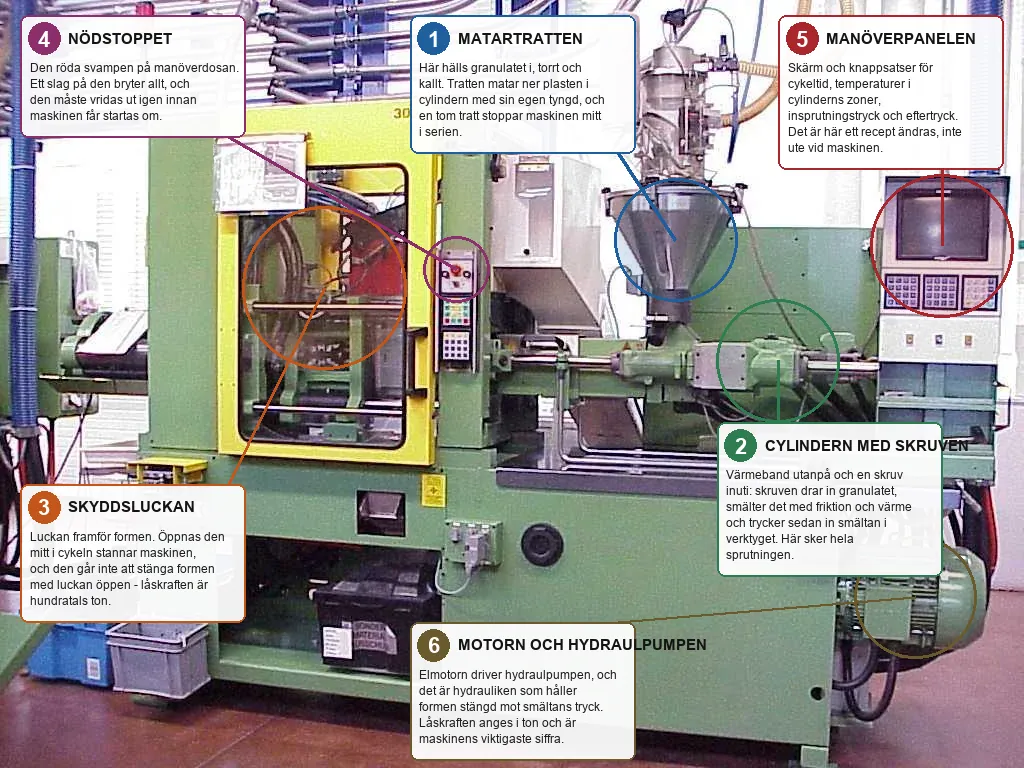
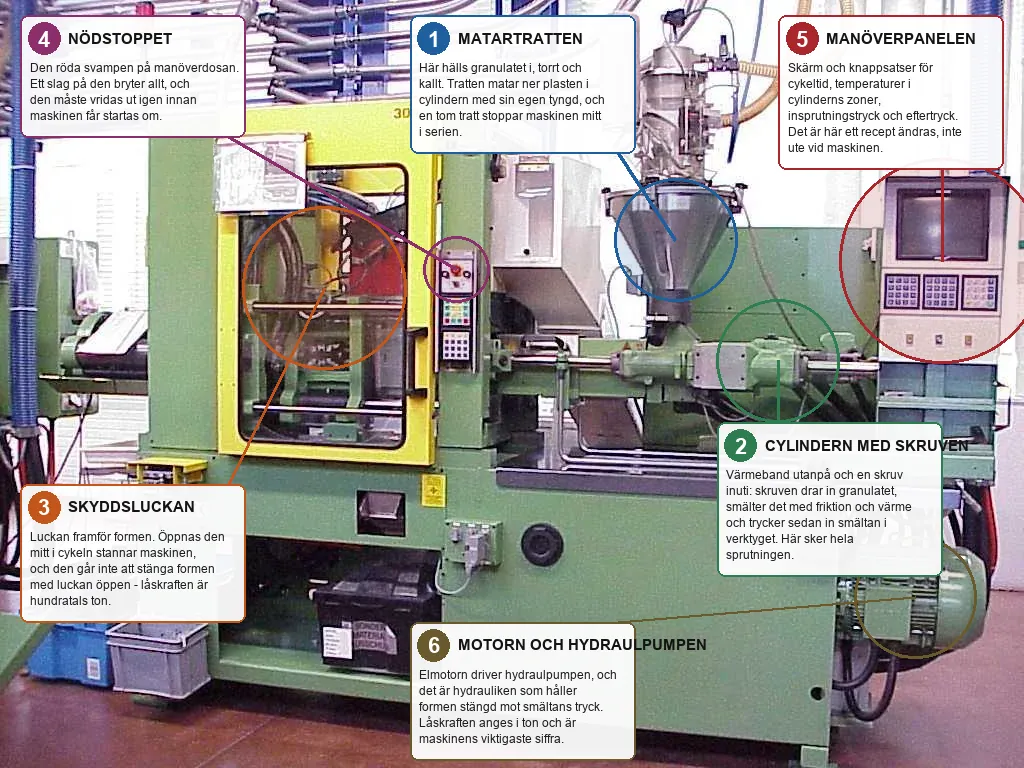
Granskning av tre jobb: rätt svar gick inte att läsa i quizen (genomskinlig grön botten mot mörkblått), lagnamnet stod två gånger i hockeyrundan, Rodins Tänkaren tjänstgjorde som tankfartyg hos färjematrosen, och golfkunderna beskrev fotot. Manöverpanelens träffyta större i formsprutan
Claude-Session: https://claude.ai/code/session_01W17UfEYKZqTsviz1FMLvRY

Changed region(s): [[0.8125, 0.2188, 1.0, 0.5]]

diff --git a/src/data/jobs.ts b/src/data/jobs.ts
@@ -976,7 +976,7 @@ export const JOBS: Job[] = [
       items: ['Passagerare med frågor'],
       bildval: [
         { bild: 'containerfartyg', namn: 'Containerfartyg' },
-        { bild: 'tankaren', namn: 'Tankfartyg' },
+        { bild: 'oljetanker', namn: 'Tankfartyg' },
         { bild: 'sluss', namn: 'Sluss' },
         { bild: 'roro', namn: 'Ro-ro-fartyg' },
         { bild: 'station-farja-1', namn: 'Färjeterminalen' },
@@ -994,8 +994,8 @@ export const JOBS: Job[] = [
         { text: 'Vad är det för lina med en knut som ser ut som ett äpple? Ni kastade den mot kajen.', svar: 'kastlina', nastan: ['fortojning', 'palstek', 'boj'], fel: 'Det där kastade ingen. Det hade gjort ont.' },
         { text: 'Ni knöt en ögla som inte drar åt. Vad heter knopen?', svar: 'palstek', nastan: ['kastlina', 'fortojning', 'fender'], fel: 'Det där är ingen knop. Det är en sak med en knop någonstans på.' },
         { text: 'Den sortens färja saknar skott på lastdäcket, vilket gör den känslig för vatten ombord. Vilken sort?', svar: 'roro', nastan: ['station-farja-1', 'containerfartyg', 'fortojning'], fel: 'Det där har ingen ramp. Bilarna får simma.' },
-        { text: 'Det där höga fartyget med lådor staplade i tio lager – vad kallas den sorten?', svar: 'containerfartyg', nastan: ['tankaren', 'roro', 'station-farja-1'], fel: 'Där ligger inga lådor. Jag har räknat.' },
-        { text: 'Det låga, långa som ligger djupt i vattnet och lastar olja – vad är det?', svar: 'tankaren', nastan: ['containerfartyg', 'roro', 'station-farja-1'], fel: 'Det där lastar ingen olja. Det syns.' },
+        { text: 'Det där höga fartyget med lådor staplade i tio lager – vad kallas den sorten?', svar: 'containerfartyg', nastan: ['oljetanker', 'roro', 'station-farja-1'], fel: 'Där ligger inga lådor. Jag har räknat.' },
+        { text: 'Det låga, långa som ligger djupt i vattnet och lastar olja – vad är det?', svar: 'oljetanker', nastan: ['containerfartyg', 'roro', 'station-farja-1'], fel: 'Det där lastar ingen olja. Det syns.' },
         { text: 'Kammaren där båten lyfts eller sänks mellan två vattennivåer – vad heter den?', svar: 'sluss', nastan: ['fortojning', 'boj', 'station-farja-1'], fel: 'Där lyfts ingen båt. Där ligger den still.' },
         { text: 'Var lägger ni till? Jag ska möta min syster vid terminalen.', svar: 'station-farja-1', nastan: ['roro', 'sluss', 'containerfartyg'], fel: 'Min syster står inte där. Hon står vid terminalen.' },
         { text: 'De uppblåsta kuddarna som hänger utanpå skrovet – vad är de till?', svar: 'fender', nastan: ['boj', 'livboj', 'flytvast'], fel: 'Det där hänger inte utanpå skrovet. Det hade sett konstigt ut.' },
@@ -2908,7 +2908,7 @@ export const JOBS: Job[] = [
           { id: 'cylinder', namn: 'Cylindern med skruven', x: 76, y: 47, r: 6, forklaring: 'Värmeband utanpå och en skruv inuti: skruven drar in granulatet, smälter det med friktion och värme och trycker sedan in smältan i verktyget. Här sker hela sprutningen.' },
           { id: 'skyddslucka', namn: 'Skyddsluckan', x: 31.7, y: 37.5, r: 8, forklaring: 'Luckan framför formen. Öppnas den mitt i cykeln stannar maskinen, och den går inte att stänga formen med luckan öppen - låskraften är hundratals ton.' },
           { id: 'nodstopp', namn: 'Nödstoppet', x: 44.6, y: 35.1, r: 3.2, forklaring: 'Den röda svampen på manöverdosan. Ett slag på den bryter allt, och den måste vridas ut igen innan maskinen får startas om.' },
-          { id: 'manoverpanel', namn: 'Manöverpanelen', x: 92, y: 32, r: 7, forklaring: 'Skärm och knappsatser för cykeltid, temperaturer i cylinderns zoner, insprutningstryck och eftertryck. Det är här ett recept ändras, inte ute vid maskinen.' },
+          { id: 'manoverpanel', namn: 'Manöverpanelen', x: 92, y: 34, r: 10, forklaring: 'Skärm och knappsatser för cykeltid, temperaturer i cylinderns zoner, insprutningstryck och eftertryck. Det är här ett recept ändras, inte ute vid maskinen.' },
           { id: 'motor', namn: 'Motorn och hydraulpumpen', x: 89.4, y: 77.8, r: 6, forklaring: 'Elmotorn driver hydraulpumpen, och det är hydrauliken som håller formen stängd mot smältans tryck. Låskraften anges i ton och är maskinens viktigaste siffra.' },
         ],
         fragor: [
@@ -3030,15 +3030,15 @@ export const JOBS: Job[] = [
         { text: 'Jag vill skydda klubbhuvudet i bagen. Något att trä över.', svar: 'headcover', nastan: ['golfhandske', 'golfbag', 'peg'], fel: 'Ska jag trä det där över klubban?' },
         { text: 'Var kan jag slå hundra bollar i rad utan att störa någon?', svar: 'range', nastan: ['green', 'bunker', 'golfbil'], fel: 'Där kan jag inte slå hundra bollar i rad. Eller, det kan jag, men de blir sura.' },
         { text: 'Jag hamnar i sanden hela tiden. Vad ska jag ta upp därifrån med?', svar: 'wedge', nastan: ['putter', 'driver', 'jarnklubba'], fel: 'Jag sa upp ur sanden, inte längre ner.' },
-        { text: 'Sandgropen vid greenen, den jag alltid hamnar i. Peka ut den så jag vet vad jag ska skylla på.', svar: 'bunker', nastan: ['green', 'range', 'golfbil'], fel: 'Nej, där hamnar jag aldrig. Tyvärr.' },
+        { text: 'Där får jag inte grunda klubban innan slaget. Peka ut den så jag vet vad jag ska skylla på.', svar: 'bunker', nastan: ['green', 'range', 'golfbil'], fel: 'Nej, där hamnar jag aldrig. Tyvärr.' },
         { text: 'Jag vill ha något litet att sätta bollen på inför utslaget.', svar: 'peg', nastan: ['golfboll', 'headcover', 'golfhandske'], fel: 'Ska bollen stå på det där? Den rullar ju av.' },
-        { text: 'Var ska jag ha klubborna någonstans?', svar: 'golfbag', nastan: ['golfbil', 'headcover', 'range'], fel: 'Fjorton klubbor. I det där. Nej.' },
+        { text: 'Reglerna tillåter fjorton klubbor. Var ska de ligga?', svar: 'golfbag', nastan: ['golfbil', 'headcover', 'range'], fel: 'Fjorton klubbor. I det där. Nej.' },
         { text: 'Jag orkar inte gå arton hål. Fixa något.', svar: 'golfbil', nastan: ['golfbag', 'range', 'green'], fel: 'Det där tar mig ingenstans. Jag har provat.' },
         { text: 'Jag vill ha en klubba som är hälften trä och hälften järn.', svar: 'hybridklubba', nastan: ['driver', 'jarnklubba', 'wedge'], fel: 'Det där är bara det ena. Jag sa hälften.' },
         { text: 'Jag har fått blåsor i vänsterhanden.', svar: 'golfhandske', nastan: ['headcover', 'peg', 'golfboll'], fel: 'Ska jag ha det där på handen? Det är inte ens min storlek.' },
-        { text: 'Jag står på det korta gräset alldeles vid hålet. Var är jag?', svar: 'green', nastan: ['range', 'bunker', 'peg'], fel: 'Där finns inget hål. Jag har letat.' },
+        { text: 'Här ska jag laga mitt nedslagsmärke och inte dra fötterna. Var står jag?', svar: 'green', nastan: ['range', 'bunker', 'peg'], fel: 'Där finns inget hål. Jag har letat.' },
         { text: 'Ge mig en sjua.', svar: 'jarnklubba', nastan: ['driver', 'hybridklubba', 'putter'], fel: 'Det där är ingen sjua. Det är inte ens en siffra.' },
-        { text: 'Jag behöver en ny. Vit. Liten. Med gropar.', svar: 'golfboll', nastan: ['golfbag', 'golfhandske', 'headcover'], fel: 'Gropar, sa jag. Små gropar, över hela.' },
+        { text: 'Jag behöver en ny. Groparna får den att flyga längre än en slät skulle göra.', svar: 'golfboll', nastan: ['golfbag', 'golfhandske', 'headcover'], fel: 'Det där flyger ingenstans, med eller utan gropar.' },
       ],
     },
     scene:

diff --git a/src/ui/minigames.ts b/src/ui/minigames.ts
@@ -1918,12 +1918,17 @@ function startTeamPick(host: HTMLElement, game: Minigame, onDone: Done): void {
      * räcker, och då slipper vi använda någon annans varumärke.
      */
     const bild = lagBild.get(r.lag);
+    /*
+     * Har laget ett märke avslöjas namnet först när man svarat, på raden
+     * under. Står namnet redan på skylten vore raden en upprepning, så då
+     * utelämnas den.
+     */
     marke.append(
       bild
         ? el('img', { class: 'mg-lagval-logo', src: quizImageUrl(bild), alt: 'Lagmärke', draggable: 'false' })
-        : el('p', { class: 'mg-lagval-skylt' }, lagetsNamn),
-      el('p', { class: 'mg-lagval-lagnamn' }, '\u00a0')
+        : el('p', { class: 'mg-lagval-skylt' }, lagetsNamn)
     );
+    if (bild) marke.append(el('p', { class: 'mg-lagval-lagnamn' }, '\u00a0'));
     feedback.say('', 'neutral');
     vidare.hidden = true;
     vantar = false;
@@ -1955,7 +1960,8 @@ function startTeamPick(host: HTMLElement, game: Minigame, onDone: Done): void {
     const lag = lagNamn.get(r.lag) ?? '';
     const rattNamn = spelare.get(r.ratt)?.namn ?? '';
     const valdLag = lagNamn.get(spelare.get(id)?.lag ?? '') ?? '';
-    marke.querySelector('.mg-lagval-lagnamn')!.textContent = lag;
+    const namnrad = marke.querySelector('.mg-lagval-lagnamn');
+    if (namnrad) namnrad.textContent = lag;
     feedback.say(ok ? `Rätt. ${rattNamn} – ${lag}.` : `Fel. ${spelare.get(id)?.namn ?? ''} hör till ${valdLag}. ${lag}: ${rattNamn}.`, ok ? 'ok' : 'fel');
     status.set(`Lag ${index + 1}/${rundor.length}`, `${right} rätt`);
     vidare.textContent = index + 1 < rundor.length ? 'Nästa lag' : 'Klart';

diff --git a/src/data/quizImages.ts b/src/data/quizImages.ts
@@ -1182,6 +1182,7 @@ export const QUIZ_IMAGES: QuizImage[] = [
   { id: 'katakomber', alt: 'Skallar och ben staplade längs väggarna i en gång under jord', article: 'Catacombs of Paris' },
   { id: 'palaisgarnier', alt: 'En praktfull byggnad med kolonner och gyllene statyer', article: 'Palais Garnier' },
   { id: 'tankaren', alt: 'En bronsstaty av en sittande man med hakan i handen', article: 'The Thinker' },
+  { id: 'oljetanker', alt: 'Ett långt lastfartyg som ligger djupt i vattnet', file: 'Solomon Sea (oil tanker), in the Solent, England.jpg', bred: true, altFraga: 'Ett långt, lågt fartyg med däcket fullt av rör' },
   { id: 'tjeckiskakronor', alt: 'Sedlar och mynt', article: 'Czech koruna' },
   { id: 'kafka', alt: 'En ung man med mörkt hår i kostym', article: 'Franz Kafka' },
   { id: 'pilsner', alt: 'Ett glas ljus öl med vitt skum', article: 'Pilsner' },

diff --git a/src/styles/main.css b/src/styles/main.css
@@ -952,7 +952,13 @@ img.no-photo {
 
 .option-right {
   border-color: var(--palm);
-  background: rgba(71, 163, 130, 0.16);
+  /*
+   * Genomskinlig grön botten fungerade så länge knappen låg på papper. I
+   * minispelen ligger den på mörkblått, och då lyste bakgrunden igenom och
+   * gjorde det mörka bläcket oläsligt - rätt svar var det enda man inte kunde
+   * läsa. Grönt över vitt, ogenomskinligt.
+   */
+  background: #dcefe6;
 }
 
 .option-right .option-key {
@@ -962,7 +968,7 @@ img.no-photo {
 
 .option-wrong {
   border-color: var(--stamp);
-  background: rgba(200, 69, 47, 0.13);
+  background: #f6dcd6;
 }
 
 .option-wrong .option-key {

diff --git a/public/sw.js b/public/sw.js
@@ -7,7 +7,7 @@
  * har innehållshash i namnet och cachas därför permanent.
  */
 
-const CACHE = 'upptackaren-v60';
+const CACHE = 'upptackaren-v61';
 
 /**
  * Stadsfotona ligger med stabila namn under cities/ och hämtas in redan vid

diff --git a/public/quiz/ATTRIBUTION.md b/public/quiz/ATTRIBUTION.md
@@ -796,19 +796,6 @@ filen. Alla är riktiga fotografier eller avfotograferade konstverk.
 - **livraddartorn.webp** (Ett färgglatt torn på en strand med flaggor) – [Miami - Lifeguard tower and flags - 0556.jpg](https://commons.wikimedia.org/wiki/File:Miami_-_Lifeguard_tower_and_flags_-_0556.jpg) av Jorge Royan, CC BY-SA 3.0.
 - **livraddartorn.webp** (Ett färgglatt torn på en strand med flaggor) – [Miami - Lifeguard tower and flags - 0556.jpg](https://commons.wikimedia.org/wiki/File:Miami_-_Lifeguard_tower_and_flags_-_0556.jpg) av Jorge Royan, CC BY-SA 3.0.
 - **lofven.webp** (Stefan Löfven, porträtt) – [Stefan Löfven efter slutdebatten i SVT 2014 (cropped).jpg](https://commons.wikimedia.org/wiki/File:Stefan_L%C3%B6fven_efter_slutdebatten_i_SVT_2014_(cropped).jpg) av Frankie Fouganthin, CC BY-SA 4.0.
-- **logo-bruins.webp** (Ett svart och gult B i ett ekerhjul) – [Boston Bruins.svg](https://commons.wikimedia.org/wiki/File:Boston_Bruins.svg) av Boston Bruins, Public domain.
-- **logo-brynas.webp** (Ett gult emblem med treklöver och lagerkrans) – [Brynasif emblem fullfarg rgb.png](https://commons.wikimedia.org/wiki/File:Brynasif_emblem_fullfarg_rgb.png) av SirBabySven, CC BY-SA 4.0.
-- **logo-canadiens.webp** (Ett rött C med ett blått H inuti) – [Montreal Canadiens.svg](https://commons.wikimedia.org/wiki/File:Montreal_Canadiens.svg) av Montreal Canadiens, Public domain.
-- **logo-canucks.webp** (Klubbens ordbild i blått) – [CanucksWordmark.gif](https://commons.wikimedia.org/wiki/File:CanucksWordmark.gif) av Sportsgamaniacre, CC BY-SA 4.0.
-- **logo-capitals.webp** (Klubbmärke i marinblått med tre röda stjärnor) – [Washington Capitals logo.svg](https://commons.wikimedia.org/wiki/File:Washington_Capitals_logo.svg) av wahrscheinlich Washington Capitals, Public domain.
-- **logo-djurgarden.webp** (En sköld i rött, gult och blått) – [Djurgardens IF logo.svg](https://commons.wikimedia.org/wiki/File:Djurgardens_IF_logo.svg) av Djurgårdens IF, Public domain.
-- **logo-flyers.webp** (Ett bevingat orange P) – [Logo Philadelphia Flyers.svg](https://commons.wikimedia.org/wiki/File:Logo_Philadelphia_Flyers.svg) av wahrscheinlich Philadelphia Flyers, Public domain.
-- **logo-frolunda.webp** (En rund klubblogga i grönt, vitt och rött) – [Frölunda HC.png](https://commons.wikimedia.org/wiki/File:Fr%C3%B6lunda_HC.png) av MSchurig, Public domain.
-- **logo-hv71.webp** (En klubblogga i blått och gult) – [HV71 Hockey.gif](https://commons.wikimedia.org/wiki/File:HV71_Hockey.gif) av Verschiedene, CC BY-SA 4.0.
-- **logo-lightning.webp** (En blå blixt i en cirkel) – [Tampa Bay Lightning 2011.svg](https://commons.wikimedia.org/wiki/File:Tampa_Bay_Lightning_2011.svg) av Unknown author Unknown author, Public domain.
-- **logo-mapleleafs.webp** (Klubbens ordbild i marinblått) – [MapleLeafsWordmark.png](https://commons.wikimedia.org/wiki/File:MapleLeafsWordmark.png) av Toronto Maple Leafs, Public domain.
-- **logo-rangers.webp** (En sköld i blått, rött och vitt) – [New York Rangers Logo.svg](https://commons.wikimedia.org/wiki/File:New_York_Rangers_Logo.svg) av Unknown author Unknown author, Public domain.
-- **logo-redwings.webp** (Ett rött hjul med vinge) – [Detroit Red Wings logo.png](https://commons.wikimedia.org/wiki/File:Detroit_Red_Wings_logo.png) av Unknown author Unknown author, Public domain.
 - **lombardstreet.webp** (En brant gata som slingrar sig i skarpa kurvor mellan blomrabatter) – [Lombard_Street_2020.jpg](https://commons.wikimedia.org/wiki/File:Lombard_Street_2020.jpg) av Christopher Michel, CC BY-SA 4.0.
 - **lomskflugsvamp.webp** (Tre lömska flugsvampar med grönaktiga hattar i skogsbrynet) – [Amanita phalloides 2011 G1.jpg](https://commons.wikimedia.org/wiki/File:Amanita_phalloides_2011_G1.jpg) av George Chernilevsky, Public domain.
 - **lomskflugsvamp2.webp** (Två lömska flugsvampar, den ena uppgrävd så att ringen och strumpan syns) – [Grüner Knollenblätterpilz Amanita phalloides.jpg](https://commons.wikimedia.org/wiki/File:Gr%C3%BCner_Knollenbl%C3%A4tterpilz_Amanita_phalloides.jpg) av Holger Krisp, CC BY 3.0.
@@ -968,6 +955,7 @@ filen. Alla är riktiga fotografier eller avfotograferade konstverk.
 - **okapi.webp** (En okapi) – [Saint-Aignan_(Loir-et-Cher)._Okapi.jpg](https://commons.wikimedia.org/wiki/File:Saint-Aignan_(Loir-et-Cher)._Okapi.jpg) av Daniel Jolivet, CC BY 2.0.
 - **oldfashioned.webp** (En drink i lågt glas med stor isbit och apelsinskal) – [Whiskey_Old_Fashioned1.jpg](https://commons.wikimedia.org/wiki/File:Whiskey_Old_Fashioned1.jpg) av Erich Wagner ( www.eventografie.de ), CC BY-SA 4.0.
 - **oliver.webp** (Gröna och svarta oliver) – [Olivesfromjordan.jpg](https://commons.wikimedia.org/wiki/File:Olivesfromjordan.jpg) av en:User:Nickfraser, CC BY-SA 3.0.
+- **oljetanker.webp** (Ett långt lastfartyg som ligger djupt i vattnet) – [Solomon Sea (oil tanker), in the Solent, England.jpg](https://commons.wikimedia.org/wiki/File:Solomon_Sea_(oil_tanker),_in_the_Solent,_England.jpg) av ITookSomePhotos, CC BY-SA 4.0.
 - **ollie.webp** (En åkare hoppar med brädan under fötterna) – [Julio_Pineda_with_the_bowl_ollie_at_Owl's_Head_Skate_Park_-_October_2019.jpg](https://commons.wikimedia.org/wiki/File:Julio_Pineda_with_the_bowl_ollie_at_Owl%27s_Head_Skate_Park_-_October_2019.jpg) av Wil540, CC BY-SA 4.0.
 - **olofpalme.webp** (Olof Palme, svartvitt foto) – [Olof Palme 1974 (cropped).jpg](https://commons.wikimedia.org/wiki/File:Olof_Palme_1974_(cropped).jpg) av Bert Verhoeff for Anefo, CC BY-SA 3.0 nl.
 - **olympiastadionbarcelona.webp** (En stadion med en gammal stenfasad) – [BCN-EstadiOlimpic-4860.jpg](https://commons.wikimedia.org/wiki/File:BCN-EstadiOlimpic-4860.jpg) av Amadalvarez, CC BY 3.0.
@@ -1632,22 +1620,3 @@ filen. Alla är riktiga fotografier eller avfotograferade konstverk.
 - **zlatan.webp** (En man med mörkt bakåtstruket hår och skägg) – [Zlatan_Ibrahimović_nyc.jpg](https://commons.wikimedia.org/wiki/File:Zlatan_Ibrahimovi%C4%87_nyc.jpg) av Colleen Sturtevant, CC BY-SA 4.0.
 - **zocalo.webp** (Ett enormt öppet torg omgivet av gamla byggnader) – [Zócalo,_Ciudad_de_México_(32846556446)_(cropped).jpg](https://commons.wikimedia.org/wiki/File:Z%C3%B3calo,_Ciudad_de_M%C3%A9xico_(32846556446)_(cropped).jpg) av Comisión Mexicana de Filmaciones from México D. F., México, CC BY-SA 2.0.
 - **zulu.webp** (Dansare i traditionell dräkt) – [Zulu_Culture,_KwaZulu-Natal,_South_Africa_(20325329170).jpg](https://commons.wikimedia.org/wiki/File:Zulu_Culture,_KwaZulu-Natal,_South_Africa_(20325329170).jpg) av South African Tourism from South Africa, CC BY 2.0.
-
-## Provbilderna i pekspelen
-
-Fyra jobb har ett foto man pekar i, med en genererad facitbild vid sidan
-(`scripts/facitbild.py`). Fotona kommer från Commons som resten:
-
-| Fil | Motiv | Källa |
-| --- | --- | --- |
-| formsprutaprov.webp | Formspruta i verkstad | [Spritzgussmaschine 300-1.jpg](https://commons.wikimedia.org/wiki/File:Spritzgussmaschine_300-1.jpg) |
-| tagprov.webp | Förarhytt i motorvagnståg | hämtad i tidigare omgång, källan behöver fyllas i |
-| pilotprov.webp | Cockpit i trafikflygplan | hämtad i tidigare omgång, källan behöver fyllas i |
-| lotsprov.webp | Brygga på fartyg | hämtad i tidigare omgång, källan behöver fyllas i |
-
-## Om klubbmärken
-
-Hockeyspelet visade tidigare klubbarnas märken. De togs bort 2026-08-29:
-frågan lyder nu "vem av de fyra hör hemma i Boston Bruins?" med lagets namn
-utskrivet, vilket gör samma nytta utan att använda någon annans varumärke.
-Landslagen i fotbollsspelet visas med flagga, och flaggor är fria.
